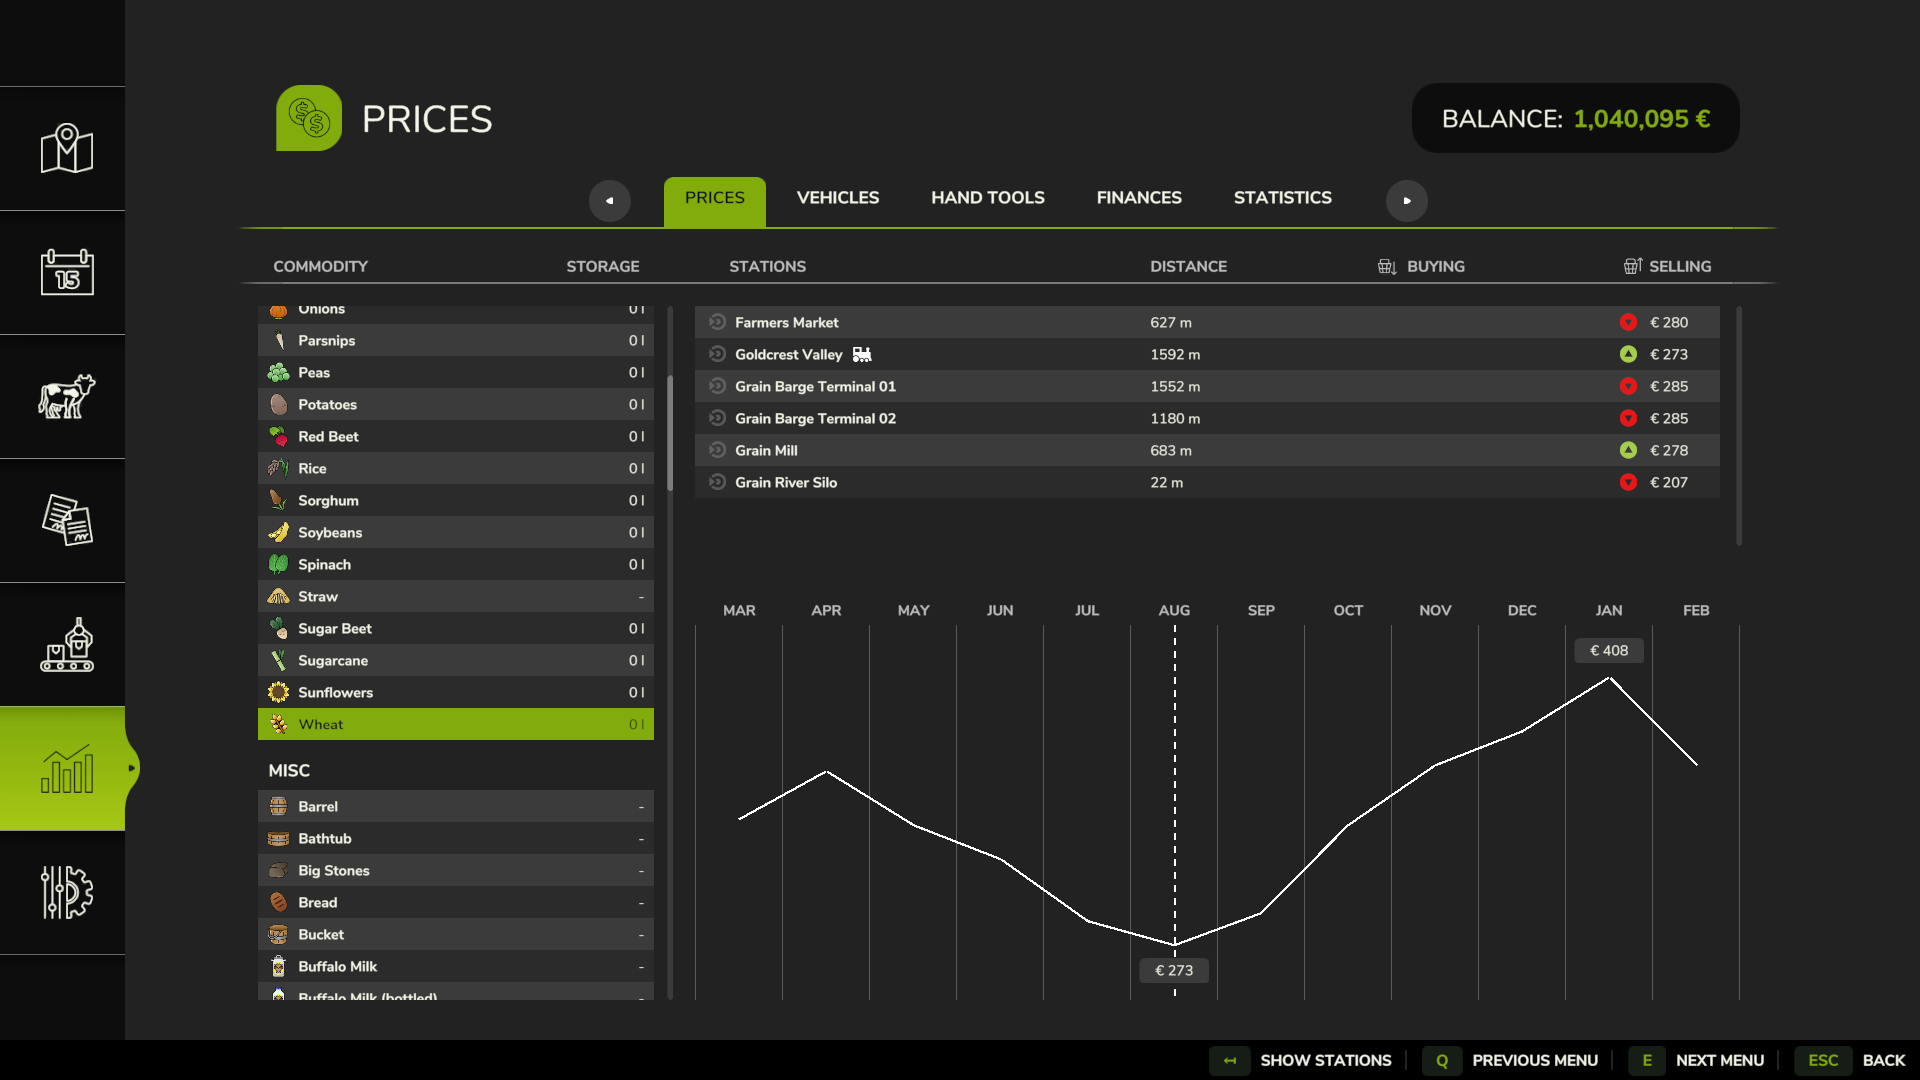
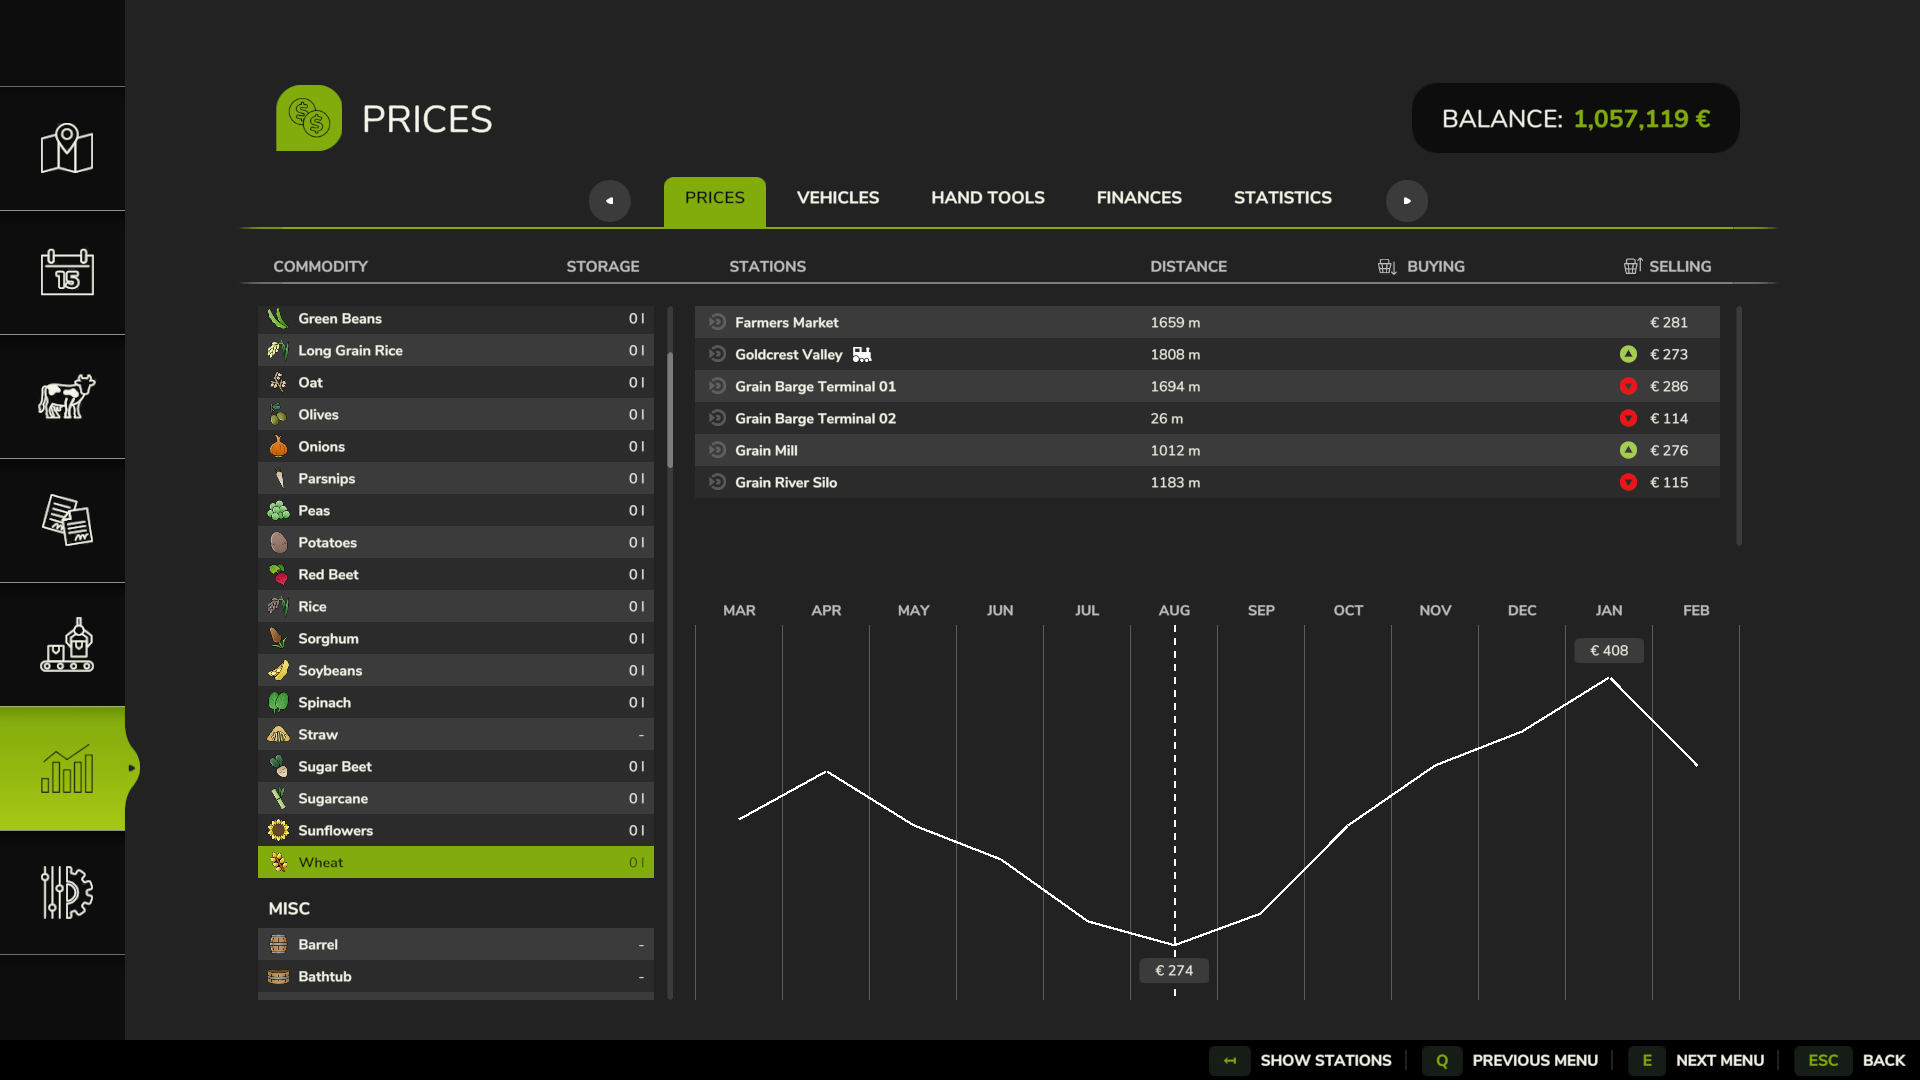
Show saturation penalty as a finance-HUD line (display-only, no double-charge)
Replaces the center-screen blinking toast (fired but easy to miss, wrong place)
with a proper "Saturated market" line in the income HUD next to Harvest Income:

- Register a custom finance category via MoneyType.register("other",
  "rmd_saturatedMarket", modName) with an inline modDesc l10n label.
- Surface the penalty with display-only g_currentMission:addMoneyChange, verified
  display-only by Motorized.lua (addMoney for balance + addMoneyChange for HUD).
  Balance is already reduced by the price hook, so no double-charge.
- Per-tick calls of the same money type auto-aggregate into one line, so the
  debounce/accumulator machinery (update/pendingPenalty/showBlinkingWarning) is
  removed. Pass farmId through the sell hook to onSale.
- Refresh before/after media (Grain River Silo EUR 287 -> 115) and docs.

diff --git a/README.md b/README.md
@@ -14,9 +14,9 @@ sales across stations, across crops, or across months and you keep prices high.
 
 ## See it in action
 
-Same crop, same moment, across every station — before and after flooding one
-selling point with wheat. Grain River Silo's price collapses from **€287** to
-**€207** while the untouched stations hold steady:
+Same crop, same moment, across every station — before and after flooding
+selling points with wheat. Grain River Silo's price collapses from **€287** to
+**€115** while the untouched stations hold steady:
 
 | Before (fresh market) | After (flooded Grain River Silo) |
 |---|---|
@@ -33,9 +33,9 @@ selling point with wheat. Grain River Silo's price collapses from **€287** to
 - 🗓 **Monthly recovery** — demand resets each in-game month, so prices bounce
   back. Patience pays.
 - 💾 **Persistent** — demand is saved with your game and restored on load.
-- 🔔 **Point-of-sale feedback** — when a market is saturated, a brief
-  "Saturated market" notice shows roughly how much you left on the table by
-  dumping there, so the penalty is visible, not hidden.
+- 🔔 **Point-of-sale feedback** — a "Saturated market" line appears in the income
+  HUD right next to your harvest income, showing exactly how much you left on the
+  table by dumping into a flooded market. The penalty is visible, not hidden.
 - 🧾 **Transparent** — everything it does is logged (prefix
   `[RealisticMarketDemand]`), so you can see exactly what's happening.
 

diff --git a/CHANGELOG.md b/CHANGELOG.md
@@ -7,10 +7,13 @@ adheres to [Semantic Versioning](https://semver.org/spec/v2.0.0.html).
 ## [Unreleased]
 
 ### Added
-- Point-of-sale "Saturated market" notification: penalties accumulate per
-  (station, fillType) across an unload and a single toast shows the money lost to
-  saturation once the flow goes idle (debounced). Uses
-  `g_currentMission:showBlinkingWarning`.
+- "Saturated market" penalty line in the income HUD (next to Harvest Income),
+  showing the money lost to saturation. Uses a custom `MoneyType.register` finance
+  category plus display-only `g_currentMission:addMoneyChange` — which does NOT
+  change the balance (already reduced by the price hook), so no double-charge.
+  Per-tick calls of the same money type auto-aggregate into one line, so no
+  debounce is needed. (Replaced the earlier center-screen `showBlinkingWarning`
+  toast, which fired but was easy to miss and in the wrong place.)
 
 ### Changed
 - Punchier default tuning so the effect is actually felt: price floor 0.55 → 0.40
